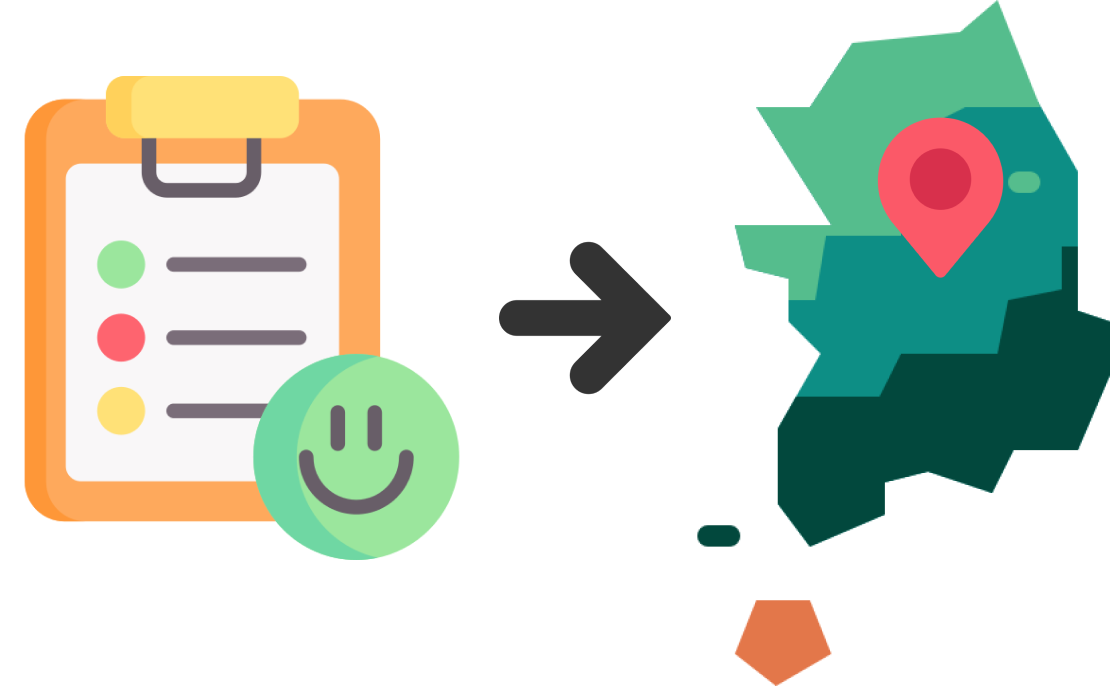
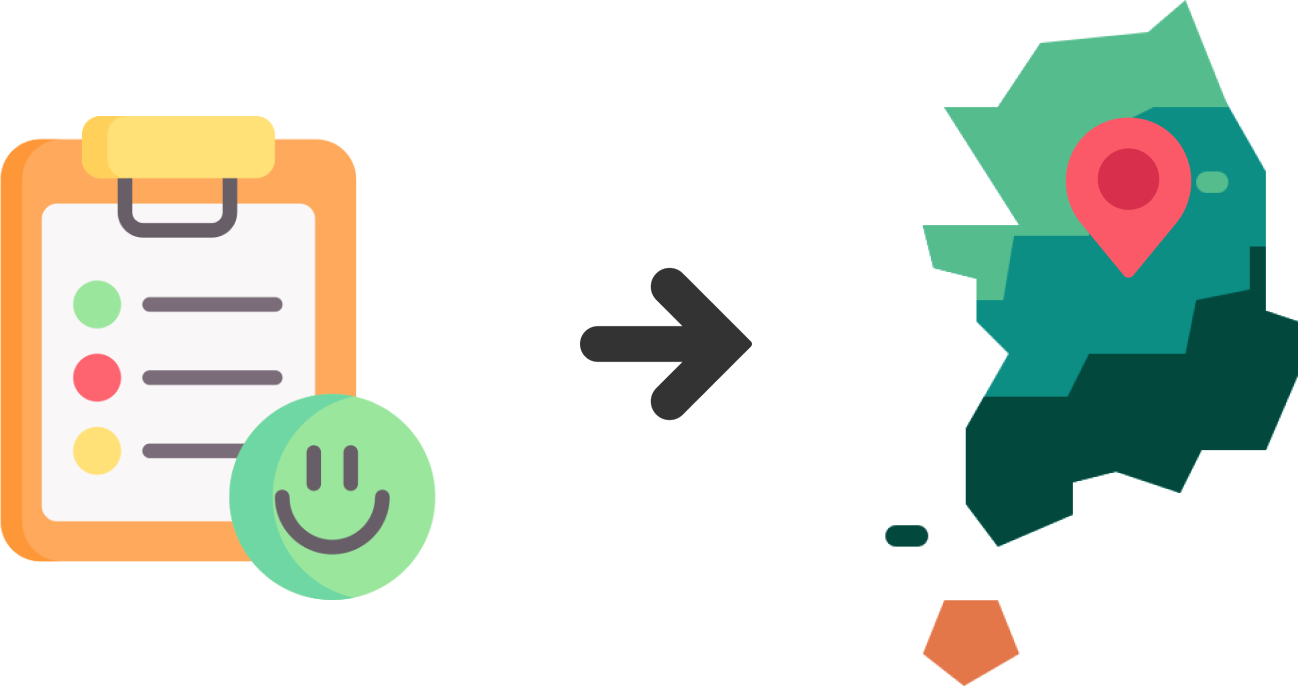
Design: 수정 메인 페이지 컴포넌트 css

diff --git a/frontend/src/components/main/MainComponent2.vue b/frontend/src/components/main/MainComponent2.vue
@@ -1,6 +1,6 @@
 <template>
-  <div>
-    <p>토지 가격, 주택 가격, 편의시설, 병의원 등 여러 요소들이 나에게 딱 알맞은 귀농지를 추천받을 수 있습니다.</p>
+  <div class="second-container">
+    <h2>토지 가격, 주택 가격, 편의시설, 병의원 등 여러 요소들이 나에게 가장 적합한 귀농지를 추천받을 수 있습니다.</h2>
     <!-- <div class="main-container">
       
       <div class="content-wrapper">
@@ -28,13 +28,19 @@ body {
   justify-content: center;
 }
 
-.main-container {
-  box-shadow: 0px 0px 10px rgba(0, 0, 0, 0.1);
-  padding: 10px;
-  /* width: 100vw; */
-  /* 가로 전체 화면 */
-  /* max-width: 1500px; */
-  /* 최대 너비 제한 */
+h2 {
+  margin: 0;
+}
+
+.second-container {
+  background-color: #fbfbef;
+  width: 100%;
+  height: 500px;
+  display: flex;
+  padding: 35px;
+  flex-direction: column;
+  justify-content: space-around;
+  align-items: center;
 }
 
 .content-wrapper {

diff --git a/frontend/src/components/main/MainComponent1.vue b/frontend/src/components/main/MainComponent1.vue
@@ -1,7 +1,7 @@
 <template>
   <div class="first-container">
     <img src="@\assets\location.png" class="location-icon">
-    <div>간단한 설문을 하면 적합한 귀농지를 추천해 드려요!</div>
+    <h2>간단한 설문을 하면 적합한 귀농지를 추천해 드려요!</h2>
     <router-link to="/survey">
       <button type="button">시작하기</button>
     </router-link>
@@ -28,10 +28,16 @@ body {
   justify-content: center;
 }
 
+h2 {
+  margin: 0;
+}
+
 .first-container {
+  background-color: #ffffff;
   width: 100%;
-  height: 100%;
+  height: 600px;
   display: flex;
+  padding: 35px;
   flex-direction: column;
   justify-content: space-around;
   align-items: center;
@@ -99,8 +105,8 @@ button {
 }
 
 .location-icon {
-  width: 250px;
-  height: 150px;
+  width: 500px;
+  height: auto;
   margin: 0 auto;
   display: block;
 }

diff --git a/frontend/src/components/main/MainComponent4.vue b/frontend/src/components/main/MainComponent4.vue
@@ -1,6 +1,6 @@
 <template>
-  <div>
-    <p>그러면, 설문을 시작해 볼까요?</p>
+  <div class="fourth-container">
+    <h2>그러면, 설문을 시작해 볼까요?</h2>
           <router-link to="/survey">
             <button type="button">시작하기</button>
           </router-link>
@@ -24,13 +24,19 @@ body {
   justify-content: center;
 }
 
-.main-container {
-  box-shadow: 0px 0px 10px rgba(0, 0, 0, 0.1);
-  padding: 10px;
-  /* width: 100vw; */
-  /* 가로 전체 화면 */
-  /* max-width: 1500px; */
-  /* 최대 너비 제한 */
+h2 {
+  margin: 0;
+}
+
+.fourth-container {
+  background-color: #d8f7d0;
+  width: 100%;
+  height: 300px;
+  display: flex;
+  padding: 35px;
+  flex-direction: column;
+  justify-content: space-around;
+  align-items: center;
 }
 
 .content-wrapper {

diff --git a/frontend/src/components/main/MainComponent3.vue b/frontend/src/components/main/MainComponent3.vue
@@ -1,5 +1,5 @@
 <template>
-  <div class="main-container3">
+  <div class="third-container">
     <h2>다른 편리한 기능들도 이용해 보세요!</h2>
     <div>
       <p>- 지역 정보 검색: 궁금한 지역의 정보를 직접 찾아볼 수 있습니다.</p>
@@ -53,8 +53,8 @@ import RegionSearchComponentVue from '../region/RegionSearchComponent.vue';
   justify-content: center;
 } */
 
-.main-container3 {
-  background-color: #f7f6f6;
+.third-container {
+  background-color: #eff9ec;
   width: 100%;
   padding: 35px;
   /* 가로 전체 화면 */

diff --git a/frontend/src/components/main/MainComponent.vue b/frontend/src/components/main/MainComponent.vue
@@ -33,7 +33,7 @@ import RegionSearchComponentVue from '../region/RegionSearchComponent.vue';
 
 .content-container {
   /* width: 1200px; */
-  min-height: 500px;
+  /* min-height: 500px; */
   display: flex;
   justify-content: center;
   align-items: center;
